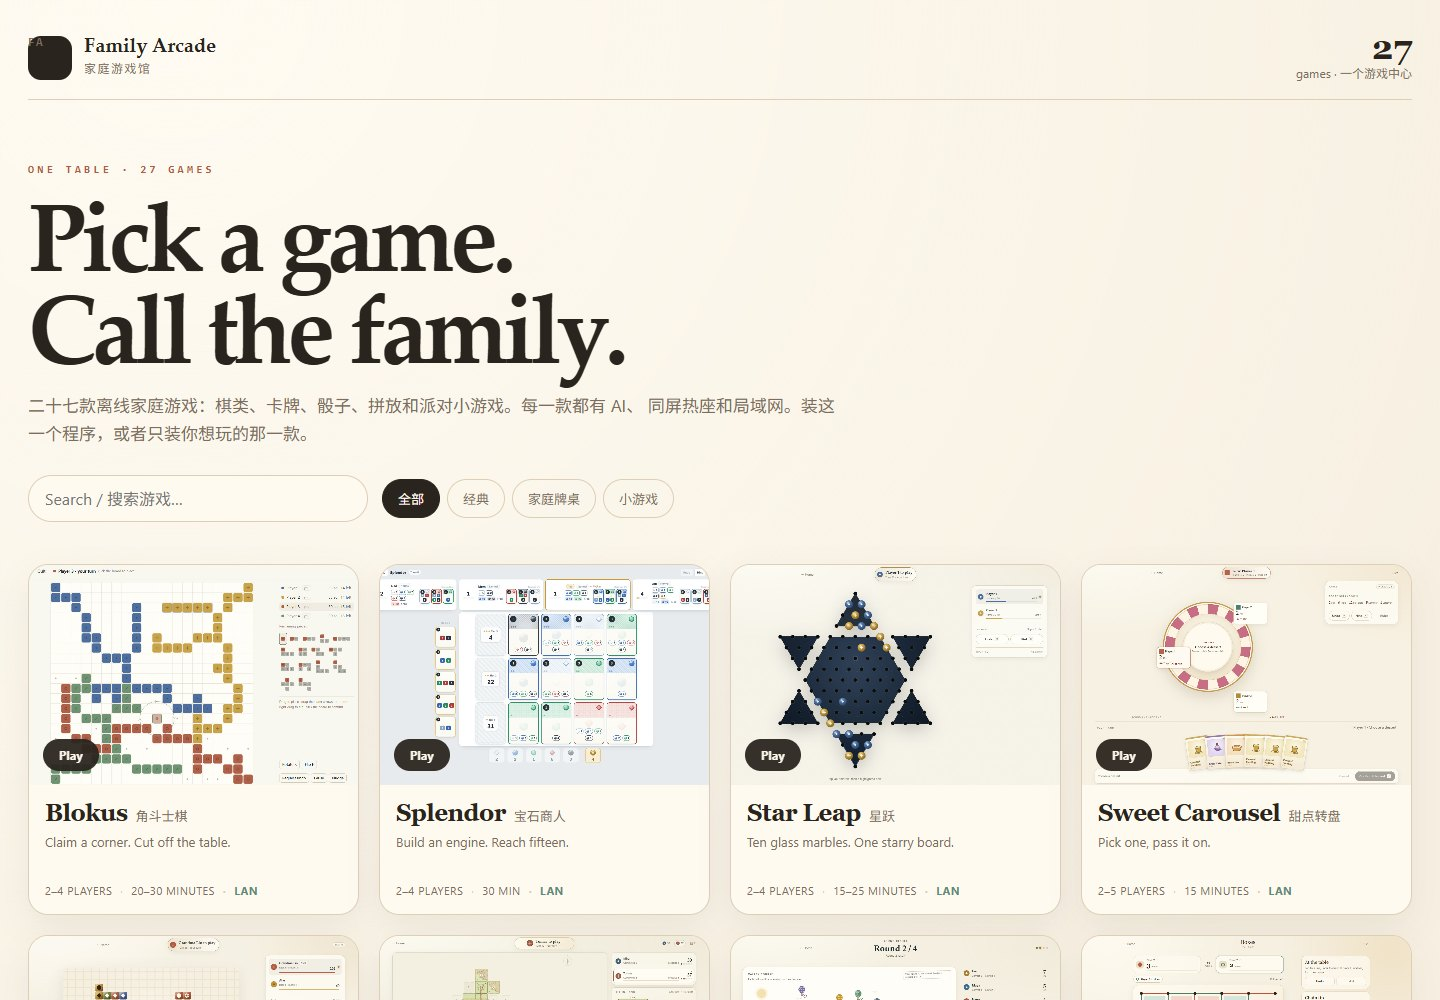
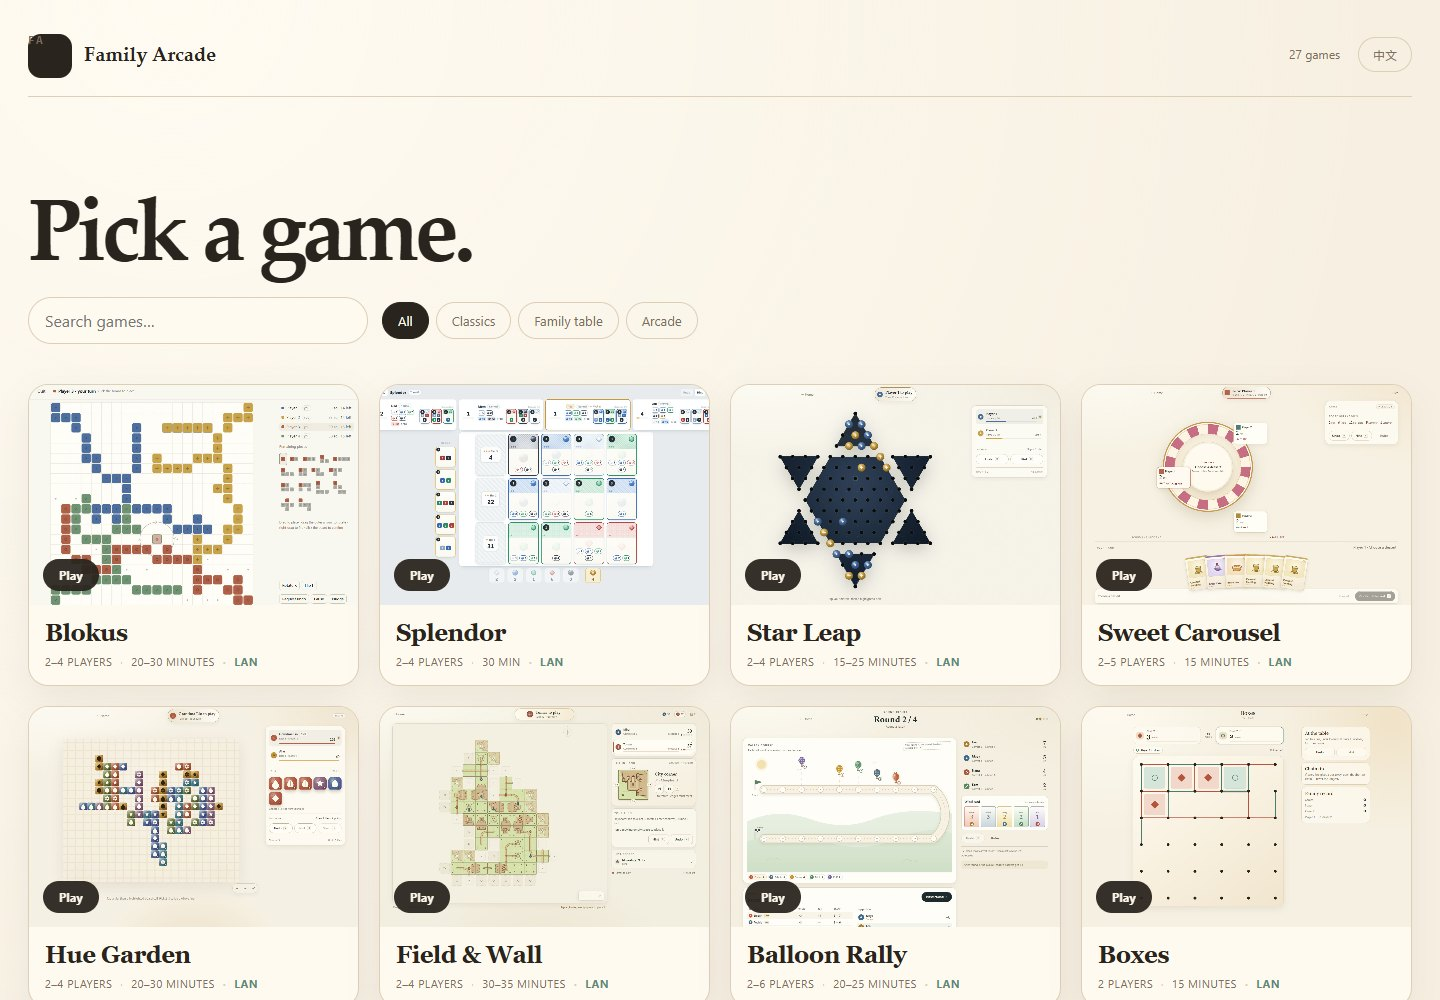
Clean bilingual hub UI and scaffold 15 classic games

diff --git a/apps/family-arcade/src/App.tsx b/apps/family-arcade/src/App.tsx
@@ -1,4 +1,4 @@
-import { useMemo, useState } from 'react';
+import { useEffect, useMemo, useState } from 'react';
 import gamesData from './data/games.json';
 
 interface HubGame {
@@ -9,37 +9,86 @@ interface HubGame {
   taglineZh: string;
   players: string;
   time: string;
+  timeZh: string;
   age: string;
   category: 'classic' | 'family' | 'arcade';
   accent: string;
   thumb: string;
 }
 
+type Lang = 'en' | 'zh';
 const GAMES = gamesData as HubGame[];
 
-const isTauri = () => typeof window !== 'undefined' && '__TAURI_INTERNALS__' in window;
+const COPY = {
+  en: {
+    brand: 'Family Arcade',
+    search: 'Search games…',
+    all: 'All',
+    classic: 'Classics',
+    family: 'Family table',
+    arcade: 'Arcade',
+    headline: 'Pick a game.',
+    games: 'games',
+    play: 'Play',
+    players: 'players',
+    lan: 'LAN',
+    footer: 'Offline · no account · no ads · LAN in every game',
+    language: '中文',
+  },
+  zh: {
+    brand: '家庭游戏馆',
+    search: '搜索游戏…',
+    all: '全部',
+    classic: '经典',
+    family: '家庭牌桌',
+    arcade: '小游戏',
+    headline: '选一款游戏。',
+    games: '款游戏',
+    play: '开始',
+    players: '人',
+    lan: '局域网',
+    footer: '离线 · 无账号 · 无广告 · 每款都能局域网',
+    language: 'English',
+  },
+} as const;
 
 async function launch(slug: string): Promise<void> {
-  if (!isTauri()) {
-    window.alert('This launcher runs as a Windows app. In the browser, open the individual game folder instead.');
+  if ('__TAURI_INTERNALS__' in window) {
+    const { invoke } = await import('@tauri-apps/api/core');
+    await invoke('launch_game', { slug });
     return;
   }
-  const { invoke } = await import('@tauri-apps/api/core');
-  await invoke('launch_game', { slug });
+  const bridge = (window as unknown as { familyArcade?: { launch(slug: string): Promise<void> } }).familyArcade;
+  if (bridge) {
+    await bridge.launch(slug);
+    return;
+  }
+  window.alert('Open the game folder in a browser, or install the Family Arcade desktop app.');
 }
 
 export default function App() {
+  const [lang, setLang] = useState<Lang>(() => {
+    const saved = localStorage.getItem('familyarcade.lang');
+    if (saved === 'en' || saved === 'zh') return saved;
+    return navigator.language.toLowerCase().startsWith('zh') ? 'zh' : 'en';
+  });
   const [query, setQuery] = useState('');
   const [filter, setFilter] = useState<'all' | HubGame['category']>('all');
   const [busy, setBusy] = useState<string | null>(null);
   const [error, setError] = useState('');
+  const t = COPY[lang];
+
+  useEffect(() => {
+    document.documentElement.lang = lang === 'zh' ? 'zh-CN' : 'en';
+    localStorage.setItem('familyarcade.lang', lang);
+  }, [lang]);
 
   const games = useMemo(() => {
     const needle = query.trim().toLowerCase();
     return GAMES.filter((game) => {
       if (filter !== 'all' && game.category !== filter) return false;
       if (!needle) return true;
-      return `${game.title} ${game.zh} ${game.tagline}`.toLowerCase().includes(needle);
+      return `${game.title} ${game.zh}`.toLowerCase().includes(needle);
     });
   }, [filter, query]);
 
@@ -48,15 +97,10 @@ export default function App() {
     setBusy(game.slug);
     try {
       await launch(game.slug);
-      const recent = JSON.parse(localStorage.getItem('familyarcade.recent') || '[]') as string[];
-      localStorage.setItem(
-        'familyarcade.recent',
-        JSON.stringify([game.slug, ...recent.filter((item) => item !== game.slug)].slice(0, 6)),
-      );
     } catch (reason) {
-      setError(`Could not start ${game.title}: ${String(reason)}`);
+      setError(String(reason));
     } finally {
-      window.setTimeout(() => setBusy(null), 700);
+      window.setTimeout(() => setBusy(null), 600);
     }
   };
 
@@ -65,43 +109,33 @@ export default function App() {
       <header className="top">
         <div className="brand">
           <span className="mark">FA</span>
-          <div>
-            <strong>Family Arcade</strong>
-            <span>家庭游戏馆</span>
-          </div>
+          <strong>{t.brand}</strong>
         </div>
-        <div className="count">
-          <strong>{GAMES.length}</strong>
-          <span>games · 一个游戏中心</span>
+        <div className="top-actions">
+          <span className="count">{GAMES.length} {t.games}</span>
+          <button className="language" onClick={() => setLang(lang === 'zh' ? 'en' : 'zh')}>
+            {t.language}
+          </button>
         </div>
       </header>
 
       <section className="hero">
-        <p className="eyebrow">ONE TABLE · 27 GAMES</p>
-        <h1>Pick a game.<br />Call the family.</h1>
-        <p className="lede">
-          二十七款离线家庭游戏：棋类、卡牌、骰子、拼放和派对小游戏。每一款都有 AI、
-          同屏热座和局域网。装这一个程序，或者只装你想玩的那一款。
-        </p>
+        <h1>{t.headline}</h1>
         <div className="search-row">
           <input
             value={query}
             onChange={(event) => setQuery(event.target.value)}
-            placeholder="Search / 搜索游戏…"
-            aria-label="Search games"
+            placeholder={t.search}
+            aria-label={t.search}
           />
           <div className="filters">
             {([
-              ['all', '全部'],
-              ['classic', '经典'],
-              ['family', '家庭牌桌'],
-              ['arcade', '小游戏'],
+              ['all', t.all],
+              ['classic', t.classic],
+              ['family', t.family],
+              ['arcade', t.arcade],
             ] as const).map(([id, label]) => (
-              <button
-                key={id}
-                className={filter === id ? 'chip active' : 'chip'}
-                onClick={() => setFilter(id)}
-              >
+              <button key={id} className={filter === id ? 'chip active' : 'chip'} onClick={() => setFilter(id)}>
                 {label}
               </button>
             ))}
@@ -111,38 +145,31 @@ export default function App() {
 
       {error && <p className="error" role="alert">{error}</p>}
 
-      <section className="grid" aria-label="Games">
+      <section className="grid" aria-label={t.brand}>
         {games.map((game) => (
           <article className="card" key={game.slug}>
             <button
               className="cover"
               onClick={() => play(game)}
-              aria-label={`Play ${game.title}`}
+              aria-label={`${t.play}: ${lang === 'zh' ? game.zh : game.title}`}
               style={{ background: `${game.accent}18` }}
             >
-              <img src={game.thumb} alt={`${game.title} screenshot`} loading="lazy" />
-              <span className="play">{busy === game.slug ? 'Starting…' : 'Play'}</span>
+              <img src={game.thumb} alt="" loading="lazy" />
+              <span className="play">{busy === game.slug ? '…' : t.play}</span>
             </button>
             <div className="meta">
-              <div className="names">
-                <h2>{game.title}</h2>
-                <span>{game.zh}</span>
-              </div>
-              <p>{game.tagline}</p>
+              <h2>{lang === 'zh' ? game.zh : game.title}</h2>
               <div className="facts">
-                <span>{game.players} players</span>
-                <span>{game.time}</span>
-                <span className="lan">LAN</span>
+                <span>{game.players} {t.players}</span>
+                <span>{lang === 'zh' ? game.timeZh : game.time}</span>
+                <span className="lan">{t.lan}</span>
               </div>
             </div>
           </article>
         ))}
       </section>
 
-      <footer className="foot">
-        <span>Offline · no account · no ads · LAN in every game</span>
-        <span>所有游戏均可单独安装，也可以从这里统一启动。</span>
-      </footer>
+      <footer className="foot">{t.footer}</footer>
     </main>
   );
 }

diff --git a/apps/family-arcade/src/styles.css b/apps/family-arcade/src/styles.css
@@ -69,3 +69,13 @@ input:focus { border-color: var(--accent); box-shadow: 0 0 0 3px rgba(176, 92, 6
   input { width: 100%; }
 }
 @media (prefers-reduced-motion: reduce) { *, *::before, *::after { transition: none !important; } }
+
+.top-actions { display:flex; align-items:center; gap:18px; }
+.language { border:1px solid var(--line); background:transparent; color:var(--muted); border-radius:999px; padding:8px 14px; font-size:12px; }
+.language:hover { color:var(--ink); background:var(--card); }
+.hero { padding: clamp(42px, 7vw, 88px) 0 26px; }
+.hero h1 { font-size: clamp(54px, 7vw, 88px); }
+.meta h2 { margin:0; font:600 24px/1.1 "Iowan Old Style", Georgia, serif; letter-spacing:-0.02em; }
+.meta { padding: 15px 16px 16px; }
+.meta .facts { margin-top: 8px; }
+@media (max-width: 860px) { .top-actions .count { display:none; } }

diff --git a/docs/future-15.md b/docs/future-15.md
@@ -1,0 +1,46 @@
+# Family Arcade · next 15 games
+
+These are the next 15 **full-rules classics**, in the same monorepo pattern: one
+independent app per game, pure engine, four AI levels, hot-seat, LAN, bilingual UI,
+real screenshots, a 45-second promo and its own installer.
+
+| # | Game | Slug | Rules | AI focus | Seats |
+| --- | --- | --- | --- | --- | --- |
+| 1 | Gomoku · 五子棋 | `gomoku` | 15×15 freestyle five-in-a-row; forbidden moves are not used | threat space, open threes/fours, 6-ply search | 2 |
+| 2 | Xiangqi · 中国象棋 | `xiangqi` | 9×10 board, full piece moves, flying general, check/checkmate/stalemate | material + king safety + 4-ply search | 2 |
+| 3 | Chess · 国际象棋 | `chess` | FIDE move rules: castling, en passant, promotion, 50-move, threefold, checkmate/stalemate | material + piece-square + alpha-beta | 2 |
+| 4 | Go · 围棋 | `go` | 19×19, also 9×9/13×13; captures, suicide, simple ko, komi, pass/pass scoring | liberty/influence + playouts | 2 |
+| 5 | Shogi · 将棋 | `shogi` | 9×9, drops, promotion, check/checkmate | material + drop safety + 3-ply | 2 |
+| 6 | International Draughts · 国际跳棋 | `intl-draughts` | 10×10, flying kings, mandatory maximum capture | capture search + endgame tables | 2 |
+| 7 | Jungle Chess · 斗兽棋 | `jungle-chess` | 7×9, animal ranks, river, traps, den | rank/den race + trap safety | 2 |
+| 8 | Hearts · 红心大战 | `hearts` | 4 players, pass 3, tricks, hearts/queen, shoot the moon | void tracking + pass choice | 4 |
+| 9 | Spades · 黑桃皇后 | `spades` | 4 players in partnerships, bidding, trump, bags | bid estimate + partner cover | 4 |
+| 10 | Rummy 500 · 五百分拉米 | `rummy-500` | draw/discard, melds/runs, lay-off, 500 target | meld potential + discard safety | 2–4 |
+| 11 | Cribbage ·  cribbage | `cribbage` | deal, crib, pegging, 121 points | hand EV + pegging | 2–4 |
+| 12 | Abalone · 大力士棋 | `abalone` | hexagonal push-out, 2–3 marbles, 6-in-a-row | push lanes + edge pressure | 2 |
+| 13 | Hive · 虫虫棋 | `hive` | base pieces, one-hive rule, beetle/gate/queen rules | placement + pin/tempo | 2 |
+| 14 | Quarto · 四连棋 | `quarto` | 4×4, 16 unique pieces, choose piece for opponent, quarto | forced-piece search | 2 |
+| 15 | President · 排位赛 | `president` | climbing/shedding, ranks, pass, first-out order | hand decomposition + control | 3–6 |
+
+## Delivery order
+
+1. Chess, Xiangqi, Gomoku, Go — the four requested flagships.
+2. Shogi, International Draughts, Jungle Chess, Abalone, Hive, Quarto — abstract two-player.
+3. Hearts, Spades, Rummy 500, Cribbage, President — card table.
+
+## Shared requirements
+
+- Engine in `src/game/` with no DOM/network/clock/`Math.random`; injected RNG.
+- At least 20 tests per game; rules audit in `docs/rules.md`.
+- Four AI levels; Companion is gentle, Hard is strong but honest.
+- Hot-seat, solo and LAN; hidden hands use per-seat views only.
+- Bilingual UI/README, no mixed-language screens.
+- Real screenshots, `video.json`, 45 s Remotion promo, Tauri/Windows installer.
+- No cloud, accounts, ads, telemetry or external assets.
+
+## Why these 15
+
+They add the “proper” classics the family asked for (Gomoku, Xiangqi, Chess, Go) plus
+three more deep abstracts (Shogi, International Draughts, Jungle Chess) and a full
+card table (Hearts, Spades, Rummy, Cribbage, President). Abalone/Hive/Quarto add
+modern abstract classics without licensed content.
